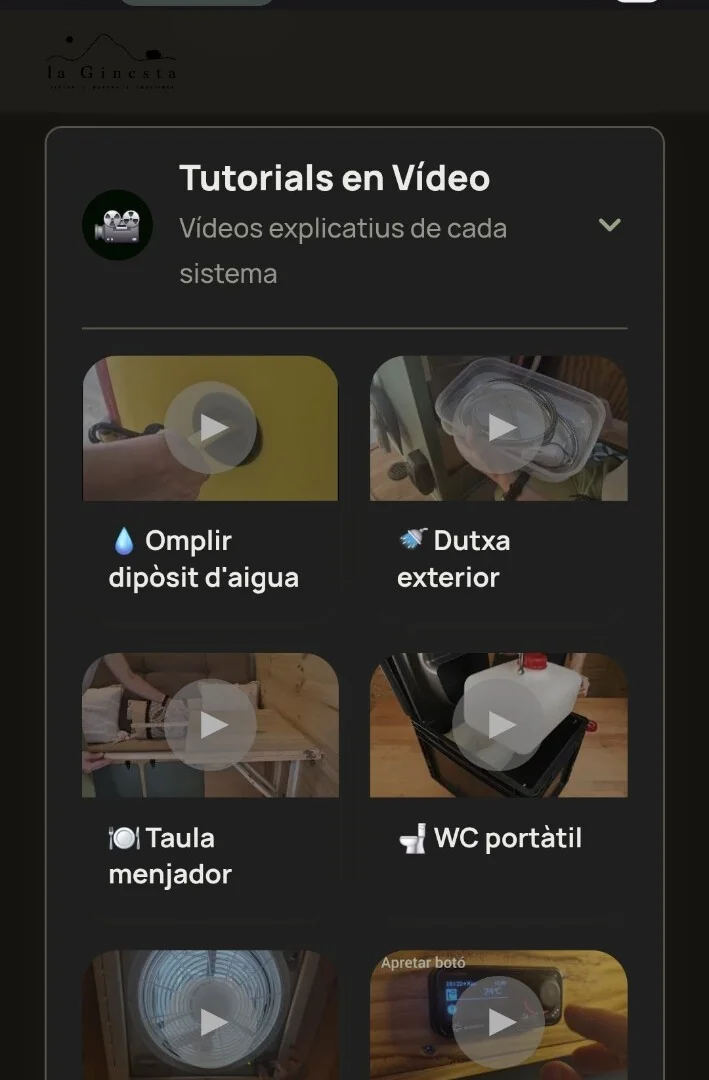
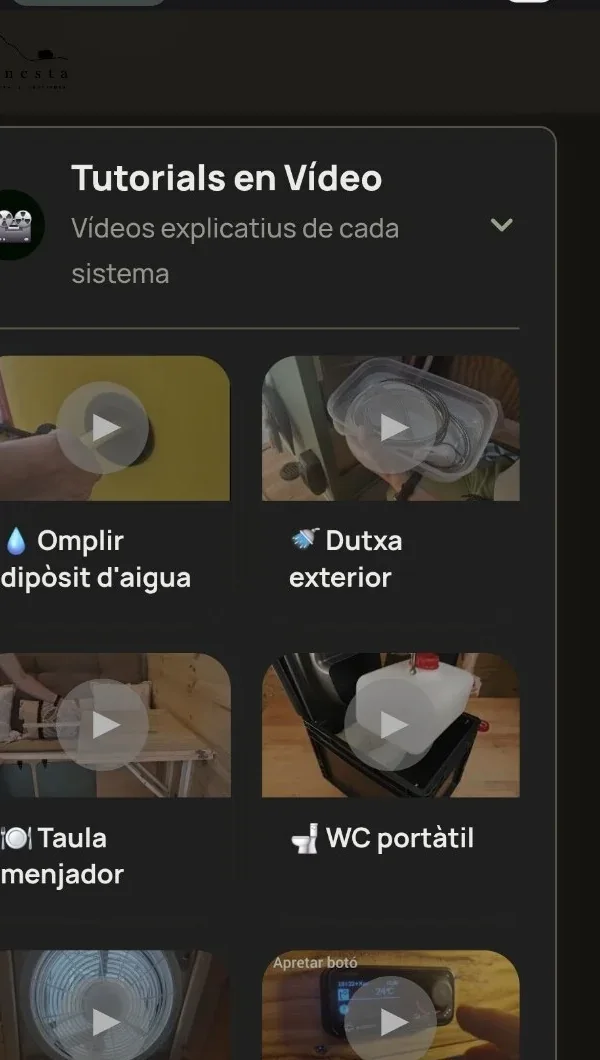
Redesign l-easy: editorial hierarchy with iPhone mockups
- Foto Spotify reduïda ~25% (editorial, no heroica)
- iPhone mockup accés privat: petit, subtil, amb text al costat
- iPhone mockup tutorials: 26px border-radius, status-bar padding,
  ombra profunda — sembla una app real
- Tutorials recropat a 600×1060px (near 9:16, focus al contingut)
- WhatsApp pill: ara visible (.75 opacity, vora verda més present)
- Desktop: foto sticky esquerra, contingut apilat dreta en 5 files

https://claude.ai/code/session_01PLTtJj3i92fpWjoQoCr1Yq

diff --git a/landing.css b/landing.css
@@ -359,22 +359,60 @@ a   { text-decoration: none; color: inherit; }
   padding: 0 var(--pad);
   display: flex;
   flex-direction: column;
-  gap: clamp(2rem, 5vw, 2.75rem);
+  gap: clamp(1.75rem, 4.5vw, 2.5rem);
 }
+/* foto editorial — reduïda, no heroica */
 .l-easy-main-img {
   width: 100%;
-  height: clamp(300px, 85vw, 560px);
+  height: clamp(230px, 60vw, 420px);
   object-fit: cover;
   object-position: center 28%;
   border-radius: 16px;
   display: block;
   filter: brightness(1.05) saturate(0.88);
 }
-.l-easy-content {
+/* accés privat */
+.l-easy-access {
   display: flex;
-  flex-direction: column;
-  gap: .75rem;
+  align-items: center;
+  gap: .95rem;
+  background: rgba(240,235,227,.03);
+  border: 1px solid rgba(240,235,227,.08);
+  border-radius: 14px;
+  padding: .85rem 1.1rem;
 }
+.l-iphone { overflow: hidden; background: #111; flex-shrink: 0; }
+.l-iphone--access {
+  width: clamp(46px, 12vw, 60px);
+  border-radius: 10px;
+  border: 3px solid #252525;
+  box-shadow: 0 6px 18px rgba(0,0,0,.6), 0 0 0 1px rgba(255,255,255,.05);
+}
+.l-iphone--access img {
+  width: 100%;
+  display: block;
+  aspect-ratio: 9/16;
+  object-fit: cover;
+  object-position: top;
+}
+.l-easy-access-text { display: flex; flex-direction: column; gap: .22rem; }
+.l-easy-access-label {
+  font-family: var(--sans);
+  font-size: .6rem;
+  letter-spacing: .12em;
+  text-transform: uppercase;
+  color: rgba(240,235,227,.35);
+  font-weight: 500;
+}
+.l-easy-access-sub {
+  font-family: var(--sans);
+  font-size: .78rem;
+  color: rgba(240,235,227,.75);
+  font-weight: 300;
+  line-height: 1.4;
+}
+/* text editorial */
+.l-easy-content { display: flex; flex-direction: column; gap: .75rem; }
 .l-easy-title {
   font-family: var(--serif);
   font-size: clamp(2rem, 5.5vw, 3rem);
@@ -399,19 +437,23 @@ a   { text-decoration: none; color: inherit; }
   font-style: italic;
   line-height: 1.5;
 }
-.l-easy-tutorials {
-  display: flex;
-  justify-content: center;
+/* tutorials: mockup iPhone */
+.l-easy-tutorials { display: flex; justify-content: center; }
+.l-iphone--tutorials {
+  width: clamp(148px, 44vw, 210px);
+  border-radius: 26px;
+  border: 6px solid #1e1e1e;
+  box-shadow: 0 0 0 1px rgba(255,255,255,.07), 0 22px 54px rgba(0,0,0,.64);
+  padding-top: 13px;
 }
-.l-easy-tutorials img {
-  width: clamp(150px, 48vw, 230px);
-  border-radius: 20px;
-  box-shadow: 0 16px 48px rgba(0,0,0,.55);
+.l-iphone--tutorials img {
+  width: 100%;
   display: block;
   aspect-ratio: 9/16;
   object-fit: cover;
   object-position: center top;
 }
+/* recursos */
 .l-easy-res-label {
   font-size: .68rem;
   letter-spacing: .1em;
@@ -420,11 +462,7 @@ a   { text-decoration: none; color: inherit; }
   font-weight: 300;
   margin-bottom: .85rem;
 }
-.l-easy-pills {
-  display: flex;
-  flex-wrap: wrap;
-  gap: .45rem;
-}
+.l-easy-pills { display: flex; flex-wrap: wrap; gap: .45rem; }
 .l-easy-pill {
   font-size: .8rem;
   font-weight: 300;
@@ -433,43 +471,46 @@ a   { text-decoration: none; color: inherit; }
   border: 1px solid rgba(240,235,227,.09);
   border-radius: 100px;
   padding: .48rem 1rem;
-  letter-spacing: .01em;
 }
+/* WhatsApp */
 .l-easy-wa { display: flex; }
 .l-easy-wa-pill {
   display: inline-flex;
   align-items: center;
-  gap: .5rem;
-  font-size: .8rem;
+  gap: .55rem;
+  font-size: .85rem;
   font-weight: 300;
-  color: rgba(240,235,227,.48);
-  background: rgba(37,211,102,.04);
-  border: 1px solid rgba(37,211,102,.14);
+  color: rgba(240,235,227,.75);
+  background: rgba(37,211,102,.06);
+  border: 1px solid rgba(37,211,102,.22);
   border-radius: 100px;
-  padding: .6rem 1.15rem;
+  padding: .68rem 1.3rem;
   letter-spacing: .01em;
 }
+/* desktop */
 @media (min-width: 768px) {
   .l-easy-wrap {
     display: grid;
-    grid-template-columns: 1.05fr 1fr;
-    grid-template-rows: auto auto auto auto;
-    column-gap: clamp(3rem, 6vw, 5rem);
-    row-gap: 2.5rem;
+    grid-template-columns: 1fr 1fr;
+    grid-template-rows: auto auto auto auto auto;
+    column-gap: clamp(3.5rem, 6vw, 5.5rem);
+    row-gap: 2.25rem;
     align-items: start;
   }
-  .l-easy-photo {
+  .l-easy-photo-block {
     grid-column: 1;
-    grid-row: 1 / 5;
+    grid-row: 1 / 6;
     position: sticky;
     top: 5rem;
+    align-self: start;
   }
-  .l-easy-main-img { height: clamp(460px, 68vw, 660px); border-radius: 18px; }
-  .l-easy-content { grid-column: 2; grid-row: 1; }
-  .l-easy-tutorials { grid-column: 2; grid-row: 2; justify-content: flex-start; }
-  .l-easy-tutorials img { width: clamp(130px, 20vw, 195px); }
-  .l-easy-resources { grid-column: 2; grid-row: 3; }
-  .l-easy-wa { grid-column: 2; grid-row: 4; }
+  .l-easy-main-img { height: clamp(420px, 58vw, 580px); border-radius: 18px; }
+  .l-easy-access    { grid-column: 2; grid-row: 1; }
+  .l-easy-content   { grid-column: 2; grid-row: 2; }
+  .l-easy-tutorials { grid-column: 2; grid-row: 3; justify-content: flex-start; }
+  .l-iphone--tutorials { width: clamp(130px, 18vw, 182px); }
+  .l-easy-resources { grid-column: 2; grid-row: 4; }
+  .l-easy-wa        { grid-column: 2; grid-row: 5; }
 }
 
 /* ─── GALERIA DESPLEGABLE ───────────────────── */

diff --git a/landing.html b/landing.html
@@ -139,7 +139,8 @@
   <section class="l-easy fade-in">
     <div class="l-easy-wrap">
 
-      <div class="l-easy-photo">
+      <!-- foto editorial -->
+      <div class="l-easy-photo-block">
         <img
           src="assets/images/exp-spotify-radio.webp"
           alt="Spotify i ràdio retro a l'interior de La Ginesta"
@@ -148,6 +149,18 @@
         >
       </div>
 
+      <!-- accés privat -->
+      <div class="l-easy-access">
+        <div class="l-iphone l-iphone--access">
+          <img src="assets/images/exp-guia-privada-login.webp" alt="Accés privat — La Ginesta" loading="lazy">
+        </div>
+        <div class="l-easy-access-text">
+          <span class="l-easy-access-label">Accés privat</span>
+          <span class="l-easy-access-sub">Guia digital exclusiva<br>accessible des del mòbil</span>
+        </div>
+      </div>
+
+      <!-- text editorial -->
       <div class="l-easy-content">
         <p class="l-sec-label">L'EXPERIÈNCIA</p>
         <h2 class="l-easy-title">T'ho posem<br>ben fàcil.</h2>
@@ -155,10 +168,14 @@
         <p class="l-easy-tagline">Perquè només hagis de preocupar-te de gaudir.</p>
       </div>
 
+      <!-- tutorials: mockup iPhone -->
       <div class="l-easy-tutorials">
-        <img src="assets/images/exp-tutorials-screen.webp" alt="Tutorials en vídeo — La Ginesta" loading="lazy">
+        <div class="l-iphone l-iphone--tutorials">
+          <img src="assets/images/exp-tutorials-screen.webp" alt="Tutorials en vídeo — La Ginesta" loading="lazy">
+        </div>
       </div>
 
+      <!-- recursos + whatsapp -->
       <div class="l-easy-resources">
         <p class="l-easy-res-label">Recursos inclosos a la guia privada</p>
         <div class="l-easy-pills">
@@ -171,7 +188,7 @@
       </div>
 
       <div class="l-easy-wa">
-        <span class="l-easy-wa-pill">💬 Suport directe per WhatsApp durant el viatge</span>
+        <span class="l-easy-wa-pill">💬 WhatsApp directe durant el viatge</span>
       </div>
 
     </div>
